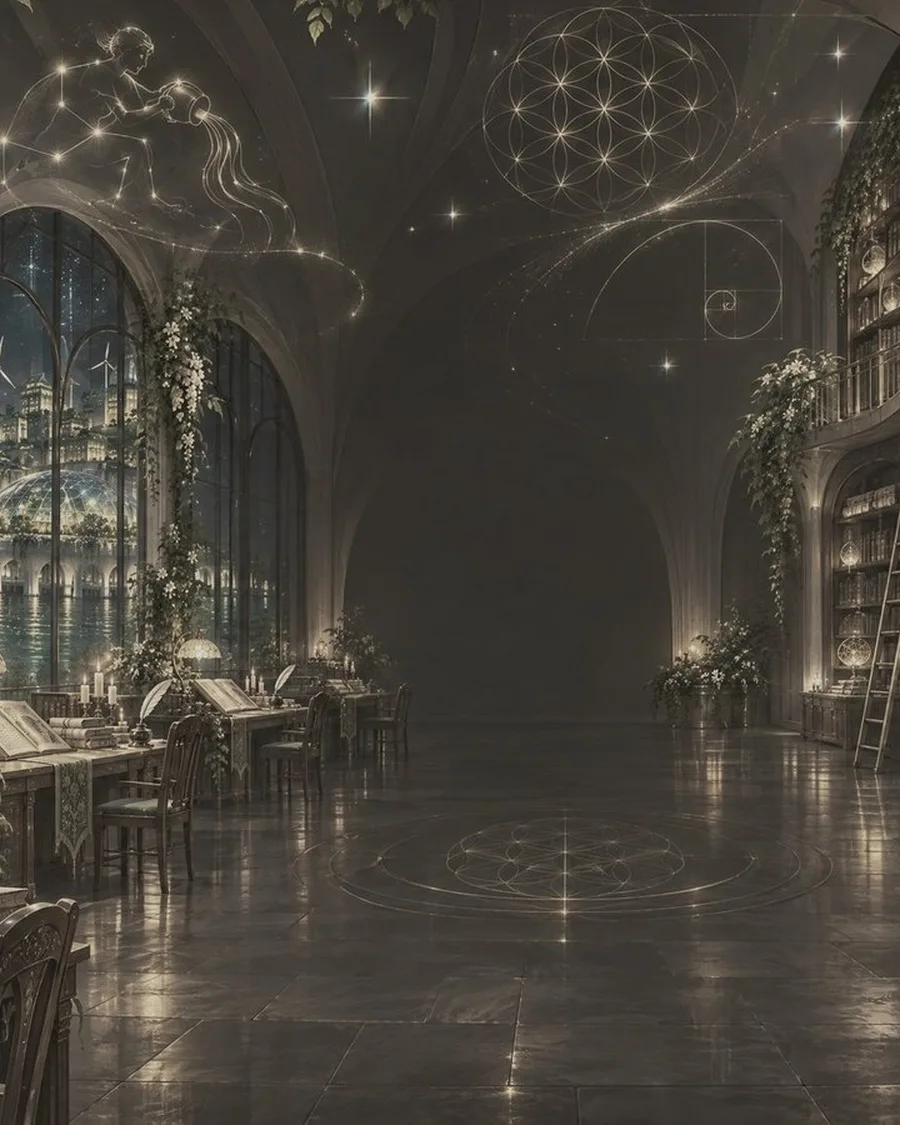
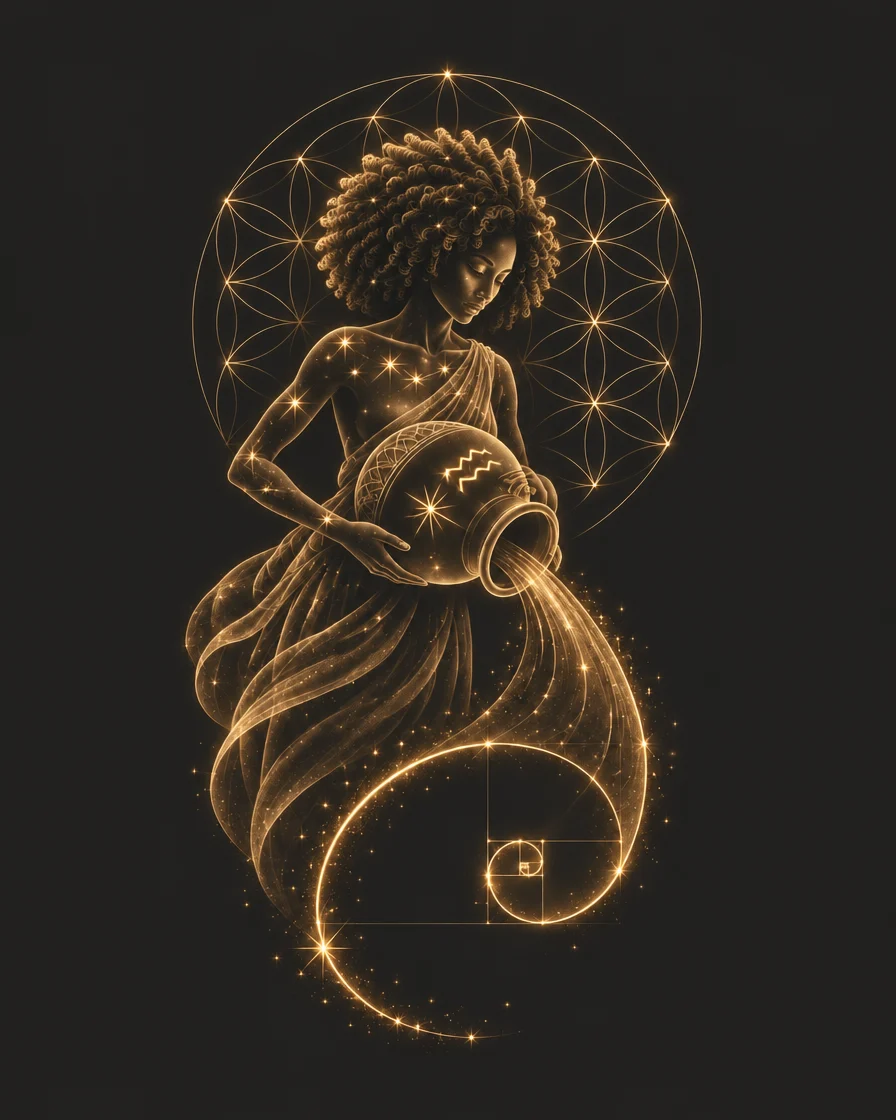
Homepage: water bearer emblem in the Manifesto section
Claude-Session: https://claude.ai/code/session_01FqDuLxJFYLT1ZZUaEZmb1x

diff --git a/style.css b/style.css
@@ -241,3 +241,4 @@ article.essay .thanks{font-size:22px;color:var(--gold-soft)}
 .hero-art.video .play::after{content:"";position:absolute;left:34px;top:26px;border-style:solid;border-width:16px 0 16px 26px;border-color:transparent transparent transparent var(--cream)}
 .hero-art.video .yt:hover .play,.hero-art.video .yt:focus-visible .play{transform:scale(1.08)}
 .hero-art.video iframe{display:block;width:100%;aspect-ratio:16/9;border:0;border-radius:12px}
+.feature-cover.emblem img{box-shadow:none;border-radius:0;-webkit-mask-image:radial-gradient(ellipse 72% 70% at 50% 50%,#000 62%,transparent 100%);mask-image:radial-gradient(ellipse 72% 70% at 50% 50%,#000 62%,transparent 100%)}

diff --git a/index.html b/index.html
@@ -109,7 +109,7 @@
   </section>
   <section class="alt beliefs-sec" aria-labelledby="manifesto-h">
     <div class="wrap feature-grid">
-      <a href="/manifesto" class="feature-cover" tabindex="-1" aria-hidden="true"><img src="/manifesto-art.webp" width="900" height="1125" alt="" loading="lazy"></a>
+      <a href="/manifesto" class="feature-cover emblem" tabindex="-1" aria-hidden="true"><img src="/manifesto-art.webp?v=3" width="896" height="1120" alt="" loading="lazy"></a>
       <div class="feature-copy">
         <h2 id="manifesto-h">Our Manifesto</h2>
         <p class="feature-sub">Innovation always starts as imagination.</p>
